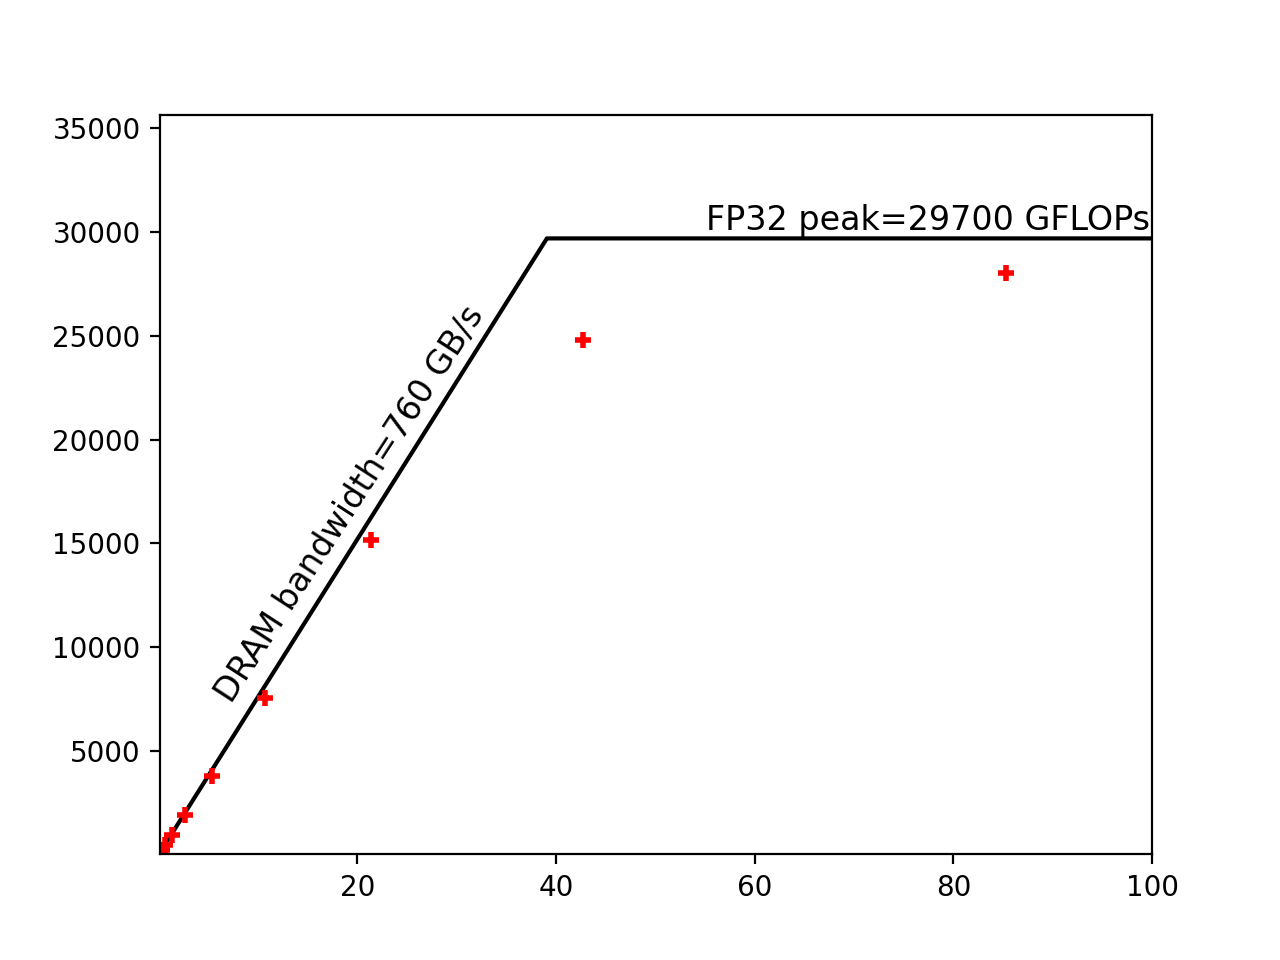
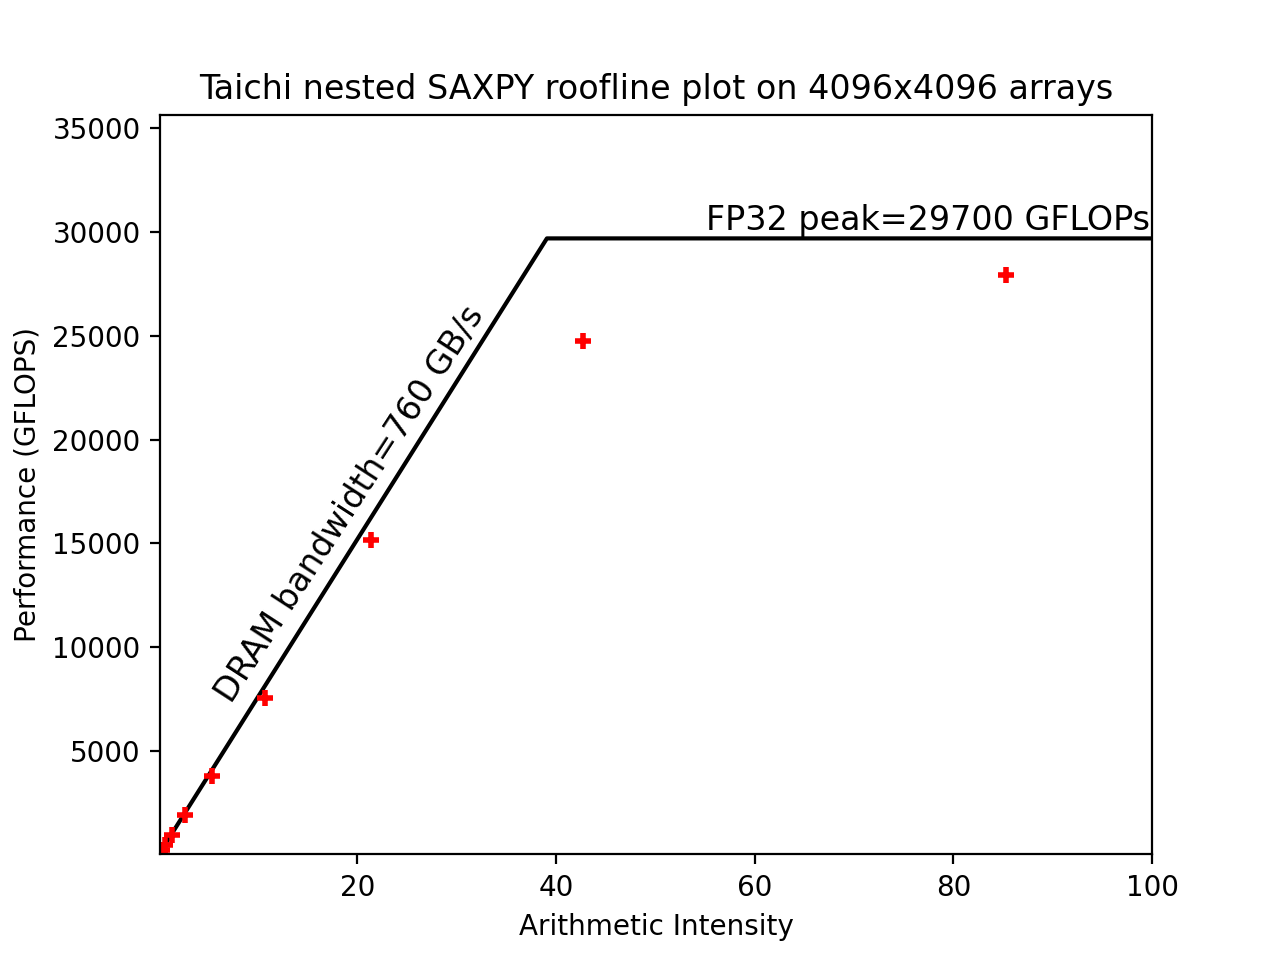
Revise roofline plot: add vlines to prompt nesting factor

Changed region(s): [[0.1562, 0.0625, 0.875, 0.125], [0.0, 0.3438, 0.0312, 0.6875], [0.4062, 0.9375, 0.625, 0.9688]]

diff --git a/saxpy/plot_roofline.py b/saxpy/plot_roofline.py
@@ -3,46 +3,48 @@ from src.taichi.benchmark import benchmark as benchmark_taichi
 import math
 import os
 
-def plot_roofline_log_scale(ax):
+def plot_nesting_factor_lines(ax, ylimit, nesting_factors=[]):
+    print(nesting_factors)
+    for nf in nesting_factors:
+        print(nf)
+        print(nf / 6.0 * 760)
+        #ax.vlines(x=[f / 6.0 for f in nesting_factors], ymin=0, ymax=nf / 6.0  * 760)
+        ax.vlines(x=[nf/6.0] , ymin=0, ymax=min(nf / 6.0  * 760, 29700), label="TEST", color='grey', linestyle='dashed')
+        ax.text(nf / 6.0, 40, "Nest={}".format(nf), rotation=270, verticalalignment='top')
+
+def plot_roofline(ax, scale='log'):
     bw = 760
     cc = 29700
     ridge = cc / 760.0
-    xlimit = 1e4
-    ax.plot([0, ridge, xlimit], [0, cc, cc], color='black')
-    ax.set_xscale('log', base=10)
-    ax.set_yscale('log', base=10)
+    membound_str = "DRAM bandwidth=760 GB/s"
+    compbound_str = "FP32 peak={} GFLOPs".format(cc)
+    if scale == 'log':
+        xlimit = 1e4
+        ylimit = cc * 2
+        plot_nesting_factor_lines(ax, ylimit, [2**x for x in range(10)])
+        ax.set_xscale('log', base=10)
+        ax.set_yscale('log', base=10)
+        ax.text(0.09, 0.95, membound_str, fontsize=12, rotation = 37, transform=ax.transAxes,
+            verticalalignment='top')
+        ax.text(0.55, 0.98, compbound_str, fontsize=12, transform=ax.transAxes,
+            verticalalignment='top')
+    elif scale == 'linear':
+        xlimit = 100
+        ylimit = cc * 1.2
+        ax.text(0.05, 0.75, membound_str, fontsize=12, rotation = 57, transform=ax.transAxes,
+            verticalalignment='top')
+        ax.text(0.55, 0.88, compbound_str, fontsize=12, transform=ax.transAxes,
+            verticalalignment='top')
+    else:
+        raise Exception("Unknown plot scale {}".format(scale))
     ax.set_xlim([2**-3, xlimit])
-    ax.set_ylim([1, cc * 2])
+    ax.set_ylim([1, ylimit])
+    ax.plot([0, ridge, xlimit], [0, cc, cc], color='black')
+    ax.grid(True, "minor")
+    props = dict(boxstyle='round', facecolor='wheat', alpha=0.2)
     ax.set_xlabel("Arithmetic Intensity")
     ax.set_ylabel("Performance (GFLOPS)")
     ax.set_title("Taichi nested SAXPY roofline plot on 4096x4096 arrays")
-    ax.grid(True, "minor")
-    membound_str = "DRAM bandwidth=760 GB/s"
-    compbound_str = "FP32 peak={} GFLOPs".format(cc)
-    props = dict(boxstyle='round', facecolor='wheat', alpha=0.2)
-    ax.text(0.09, 0.95, membound_str, fontsize=12, rotation = 37, transform=ax.transAxes,
-            verticalalignment='top')
-    ax.text(0.55, 0.98, compbound_str, fontsize=12, transform=ax.transAxes,
-            verticalalignment='top')
-
-def plot_roofline_linear_scale(ax):
-    bw = 760
-    cc = 29700
-    ridge = cc / 760.0
-    xlimit = 100
-    ax.plot([0, ridge, xlimit], [0, cc, cc], color='black')
-    #ax.set_xscale('log', base=10)
-    #ax.set_yscale('log', base=10)
-    ax.set_xlim([2**-3, xlimit])
-    ax.set_ylim([1, cc * 1.2])
-    ax.grid(True, "minor")
-    membound_str = "DRAM bandwidth=760 GB/s"
-    compbound_str = "FP32 peak={} GFLOPs".format(cc)
-    props = dict(boxstyle='round', facecolor='wheat', alpha=0.2)
-    ax.text(0.05, 0.75, membound_str, fontsize=12, rotation = 57, transform=ax.transAxes,
-            verticalalignment='top')
-    ax.text(0.55, 0.88, compbound_str, fontsize=12, transform=ax.transAxes,
-            verticalalignment='top')
 
 def get_arithmetic_intensity(flops, bw):
     return flops / bw
@@ -50,6 +52,7 @@ def get_arithmetic_intensity(flops, bw):
 def get_color_marker(N):
     color_dict = {256:'gold', 512:'darkorange', 1024:'green', 2048:'blue', 4096:'red', 8192:'darkgrey',}
     return color_dict[N]
+
 def plot_results(ax, results):
     x = []
     y = []
@@ -70,12 +73,12 @@ if __name__ == '__main__':
         pass
     taichi_results = benchmark_taichi(max_nesting=512)
     fig, ax = plt.subplots()
-    plot_roofline_linear_scale(ax)
-    plot_results(ax, taichi_results)
-    fig.savefig('fig/roofline_linear_scale.png',dpi=200)
-    fig.clf()
-    ax.cla()
-    fig, ax = plt.subplots()
-    plot_roofline_log_scale(ax)
+    #plot_roofline(ax, scale='linear')
+    #plot_results(ax, taichi_results)
+    #fig.savefig('fig/roofline_linear_scale.png',dpi=200)
+    #fig.clf()
+    #ax.cla()
+    #fig, ax = plt.subplots()
+    plot_roofline(ax, scale='log')
     plot_results(ax, taichi_results)
     fig.savefig('fig/roofline_log_scale.png',dpi=200)
